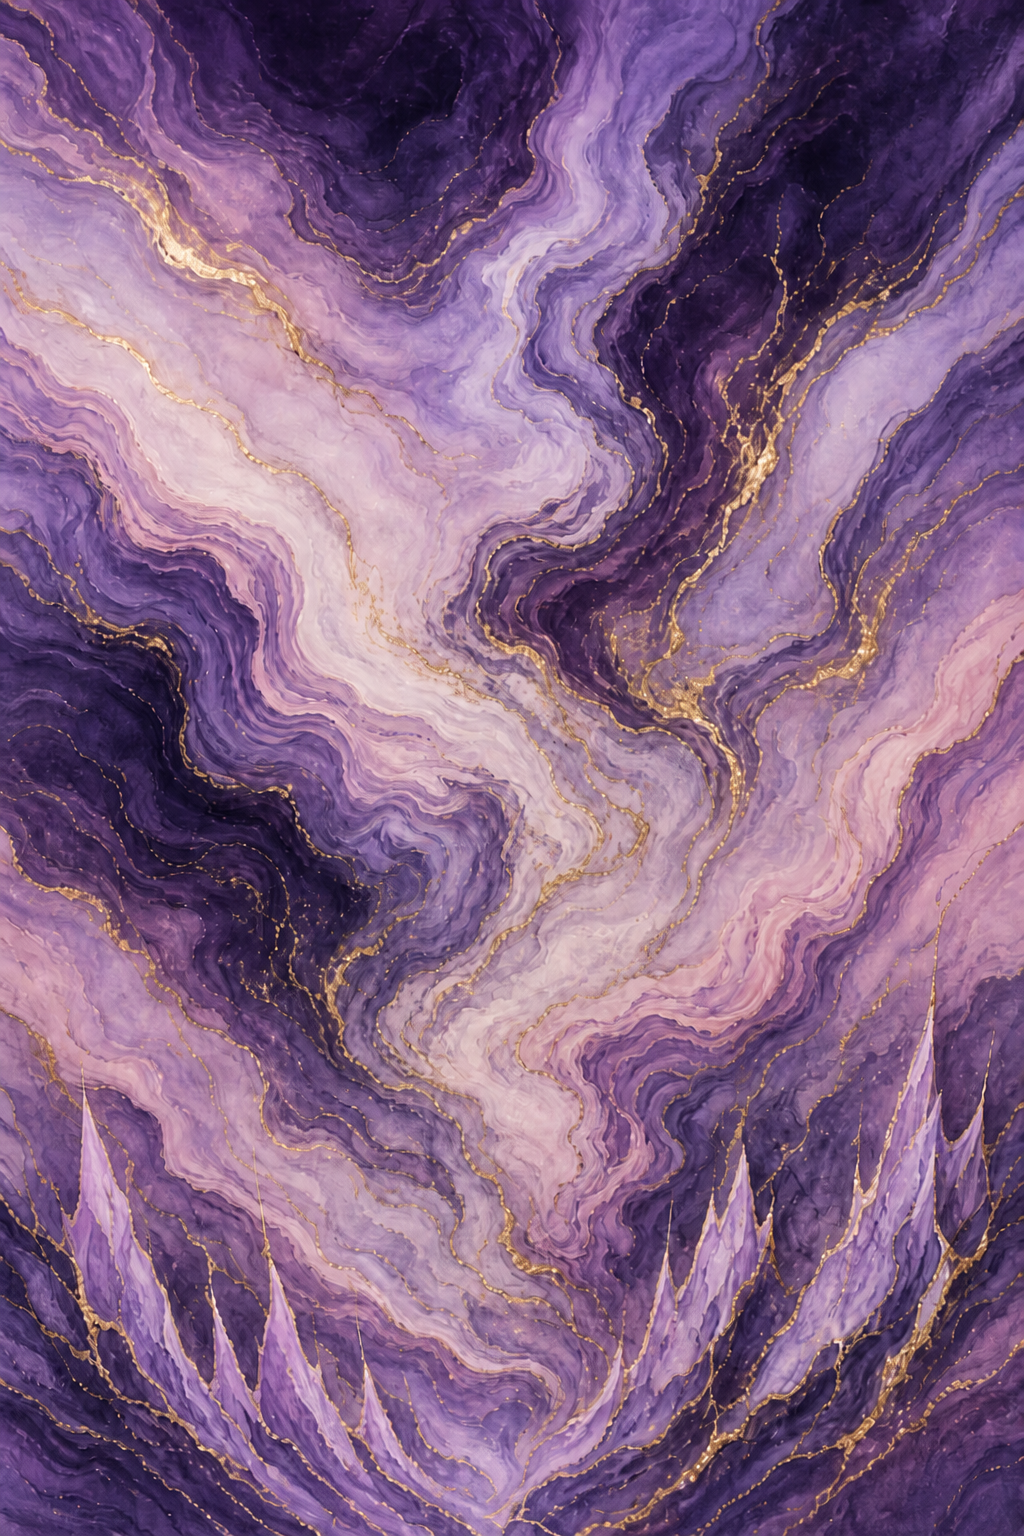
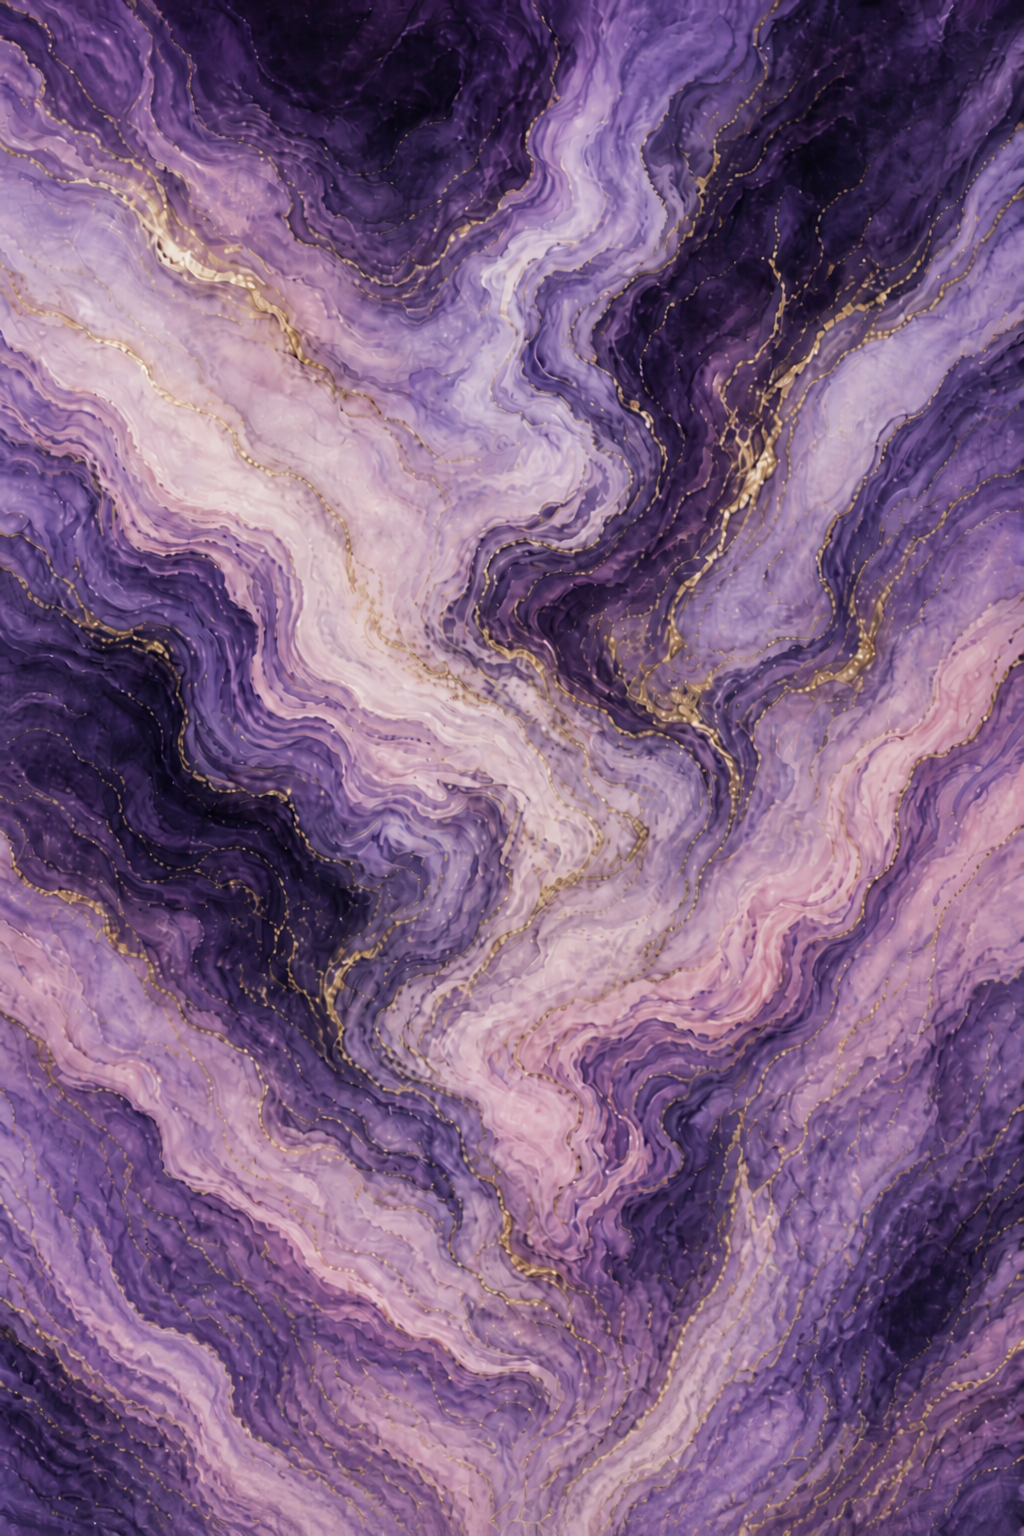
Add women's pastel Culture Run capsule and clean background plates
Five new 06-pastel drops (mist wave, apricot brush, mint marble, blush and lilac watercolor) plus a dusk-marble clean plate with no floral or spike artifacts.

diff --git a/design-board/src/data/culture.ts b/design-board/src/data/culture.ts
@@ -21,6 +21,11 @@ export const cultureMockups: Mockup[] = [
   { src: drop('05-watercolor', 'moss-watercolor', 'tee.png'), title: 'Moss Watercolor', type: 'Men tee · current wash', line: 'culture' },
   { src: drop('05-watercolor', 'sand-wave-watercolor', 'tank.png'), title: 'Sand Wave Watercolor', type: 'Men tank · wave wash', line: 'culture' },
   { src: drop('05-watercolor', 'cacao-watercolor', 'tank.png'), title: 'Cacao Watercolor Route', type: 'Women tank · route wash', line: 'culture' },
+  { src: drop('06-pastel', 'mist-wave', 'singlet.png'), title: 'Mist Wave', type: 'Women singlet · pastel wave', line: 'culture' },
+  { src: drop('06-pastel', 'apricot-brush', 'tee.png'), title: 'Apricot Brush', type: 'Women tee · pastel brush', line: 'culture' },
+  { src: drop('06-pastel', 'mint-marble', 'tank.png'), title: 'Mint Marble', type: 'Women tank · pastel marble', line: 'culture' },
+  { src: drop('06-pastel', 'blush-watercolor', 'tank.png'), title: 'Blush Watercolor', type: 'Women tank · sakura wash', line: 'culture' },
+  { src: drop('06-pastel', 'lilac-watercolor', 'tee.png'), title: 'Lilac Watercolor', type: 'Women tee · lilac wash', line: 'culture' },
 ]
 
 export const cultureBackgrounds = [
@@ -40,6 +45,11 @@ export const cultureBackgrounds = [
   { src: drop('05-watercolor', 'moss-watercolor', 'background-clean.png'), title: 'Clean — Moss Watercolor' },
   { src: drop('05-watercolor', 'sand-wave-watercolor', 'background-clean.png'), title: 'Clean — Sand Wave Watercolor' },
   { src: drop('05-watercolor', 'cacao-watercolor', 'background-clean.png'), title: 'Clean — Cacao Watercolor Route' },
+  { src: drop('06-pastel', 'mist-wave', 'background-clean.png'), title: 'Clean — Mist Wave' },
+  { src: drop('06-pastel', 'apricot-brush', 'background-clean.png'), title: 'Clean — Apricot Brush' },
+  { src: drop('06-pastel', 'mint-marble', 'background-clean.png'), title: 'Clean — Mint Marble' },
+  { src: drop('06-pastel', 'blush-watercolor', 'background-clean.png'), title: 'Clean — Blush Watercolor' },
+  { src: drop('06-pastel', 'lilac-watercolor', 'background-clean.png'), title: 'Clean — Lilac Watercolor' },
 ]
 
 export const cultureLayers = [
@@ -79,4 +89,9 @@ export const culturePrints = [
   { src: drop('05-watercolor', 'moss-watercolor', 'print.png'), title: 'Print — Moss Watercolor' },
   { src: drop('05-watercolor', 'sand-wave-watercolor', 'print.png'), title: 'Print — Sand Wave Watercolor' },
   { src: drop('05-watercolor', 'cacao-watercolor', 'print.png'), title: 'Print — Cacao Watercolor Route' },
+  { src: drop('06-pastel', 'mist-wave', 'print.png'), title: 'Print — Mist Wave' },
+  { src: drop('06-pastel', 'apricot-brush', 'print.png'), title: 'Print — Apricot Brush' },
+  { src: drop('06-pastel', 'mint-marble', 'print.png'), title: 'Print — Mint Marble' },
+  { src: drop('06-pastel', 'blush-watercolor', 'print.png'), title: 'Print — Blush Watercolor' },
+  { src: drop('06-pastel', 'lilac-watercolor', 'print.png'), title: 'Print — Lilac Watercolor' },
 ]

diff --git a/design-board/src/App.tsx b/design-board/src/App.tsx
@@ -501,8 +501,9 @@ function App() {
             <h2>Running shirts &amp; tanks</h2>
             <p className="lede">
               v2: all-over dye-sub, no embroidery patches. Textures: smooth gradient, brushed gradation, liquid marble,
-              heatmap, suminagashi, watercolor wash. Drops live under{' '}
-              <code>assets/culture-run/01-wave</code> … <code>05-watercolor</code>. Use{' '}
+              heatmap, suminagashi, watercolor wash. Women&apos;s pastel capsule lives in{' '}
+              <code>06-pastel</code>. Drops live under{' '}
+              <code>assets/culture-run/01-wave</code> … <code>06-pastel</code>. Use{' '}
               <code>background-clean.png</code> when you need to move kanji or logos; keep{' '}
               <code>print.png</code> as the locked composite.
             </p>
@@ -511,8 +512,9 @@ function App() {
           <section>
             <h2>Backgrounds only (no kanji / logo)</h2>
             <p className="lede">
-              Same drop, texture only — no logo, no kanji, no slogans. Place 走 / 山 and the hex C or CN
-              mark from <code>assets/culture-run/layers/</code> on top in any position.
+              Same drop, texture only — no logo, no kanji, no slogans, no flowers, no figurative
+              artifacts. Place 走 / 山 and the hex C or CN mark from{' '}
+              <code>assets/culture-run/layers/</code> on top in any position.
             </p>
             <MockGrid items={cultureBackgrounds} />
           </section>

diff --git a/docs/culture-run-collection.md b/docs/culture-run-collection.md
@@ -25,6 +25,10 @@ All-over dye-sub. No sewn embroidery patches. Hex C is flat print. 走 (if used)
 | Earth sumi | Espresso / sandstone ink marble | Sandstone Sumi |
 | Route marble | Cacao / clay trail-map lines | Cacao Route |
 | Watercolor wash | Controlled translucent pigment + contour lines | Earth-tone capsule |
+| Pastel wave | Powder / seafoam aurora + woodblock crests | Women Mist Wave |
+| Pastel brush | Apricot / cream wet-brush tide | Women Apricot Brush |
+| Pastel marble | Mint / pistachio liquid marble | Women Mint Marble |
+| Pastel watercolor | Blush sakura wash or lilac wash | Women Blush / Lilac |
 
 ---
 
@@ -32,7 +36,7 @@ All-over dye-sub. No sewn embroidery patches. Hex C is flat print. 走 (if used)
 
 Drops are grouped by texture so the file browser is easier to scan:
 
-`assets/culture-run/01-wave/` · `02-brushed/` · `03-marble/` · `04-earth/` · `05-watercolor/`
+`assets/culture-run/01-wave/` · `02-brushed/` · `03-marble/` · `04-earth/` · `05-watercolor/` · `06-pastel/`
 
 Each drop folder has garment mockup + `print.png` (locked) + `background-clean.png` (texture only).
 
@@ -41,7 +45,7 @@ Each drop folder has garment mockup + `print.png` (locked) + `background-clean.p
 | File | What it is |
 |------|------------|
 | `…/<drop>/print.png` | Locked design — leave this alone |
-| `…/<drop>/background-clean.png` | Same drop without logo, kanji, or slogans |
+| `…/<drop>/background-clean.png` | Texture only — no logo, kanji, slogans, flowers, or figurative artifacts |
 | `assets/culture-run/layers/kanji/so-run-*.png` | Transparent 走 |
 | `assets/culture-run/layers/kanji/san-mountain-*.png` | Transparent 山 |
 | `assets/culture-run/layers/logos/hex-c-*.png` | Transparent classic hex C |
@@ -67,6 +71,13 @@ Place a layer on `background-clean.png` in any editor. Do not overwrite `print.p
 | `05-watercolor` | `moss-watercolor` | Moss / stone river pigment wash | Men tee | 走 |
 | `05-watercolor` | `sand-wave-watercolor` | Sand / umber watercolor wave | Men tank | 走 |
 | `05-watercolor` | `cacao-watercolor` | Cacao / clay watercolor route | Women tank | No |
+| `06-pastel` | `mist-wave` | Powder / seafoam aurora wave | Women singlet | No |
+| `06-pastel` | `apricot-brush` | Apricot / cream wet-brush tide | Women tee | No |
+| `06-pastel` | `mint-marble` | Mint / pistachio liquid marble | Women tank | No |
+| `06-pastel` | `blush-watercolor` | Sakura path on blush watercolor | Women tank | No |
+| `06-pastel` | `lilac-watercolor` | Lilac watercolor wash | Women tee | No |
+
+`06-pastel` is the women's pastel run wall. Clean plates stay texture-only — no lavender sprigs, no sakura, no runners.
 
 `_archive-v1/` = flat charcoal pieces. Do not send those to factory.
 
@@ -94,15 +105,20 @@ Not batik costume, not a temple tourist print, not a flag.
 - **Sandstone Sumi:** espresso `#2C2420` + umber `#6D4234` + sandstone `#CCAA75` + smoke `#61554C` + cream `#E5D7BC`
 - **Cacao Route:** cacao `#4C2E26` + clay `#A65B45` + dusty rose `#B27C73` + oatmeal `#E3D3B5` + sage `#74806B`
 - **Watercolor capsule:** pigment edges should look transparent and layered—not paper texture, not an oil painting, and not a washed-out pastel.
+- **Mist Wave:** pearl `#F4F0EA` → powder `#B8D4E8` → seafoam `#9ED4C4`
+- **Apricot Brush:** cream `#F8EDE4` + apricot `#E8A888` + peach sand `#F0C4B0`
+- **Mint Marble:** jade cream `#E8F0E4` + mint `#C8E4D4` + pistachio `#B4D4A8`
+- **Blush Watercolor:** blossom cream `#FFF7F8` + blush `#F2C8C8` + sakura `#E8A4B4` + rose `#C45B78` (sakura path on the garment / print only)
+- **Lilac Watercolor:** mist `#F3EEF6` + lilac `#C5B4D8` + lavender `#8B6FA8` (lavender spikes on the garment only — never on `background-clean.png`)
 
 ---
 
 ## Shopee & floor
 
-Title: `Corenation Culture Run [Tee|Tank|Singlet] — [Blue Hour Wave|Brushed Tide|Summit Brushed|Bloom Marble|Dusk Marble|Home Soil Dawn|Heatmap Marble|Ink Marble|Bumi Strata|Moss Current|Sandstone Sumi|Cacao Route|Bumi Watercolor|Moss Watercolor|Sand Wave Watercolor|Cacao Watercolor Route]`
+Title: `Corenation Culture Run [Tee|Tank|Singlet] — [Blue Hour Wave|Brushed Tide|Summit Brushed|Bloom Marble|Dusk Marble|Home Soil Dawn|Heatmap Marble|Ink Marble|Bumi Strata|Moss Current|Sandstone Sumi|Cacao Route|Bumi Watercolor|Moss Watercolor|Sand Wave Watercolor|Cacao Watercolor Route|Mist Wave|Apricot Brush|Mint Marble|Blush Watercolor|Lilac Watercolor]`
 
 Hang so the **back** shows. Do not merch next to the 龍 lifting short without a fixture break.
 
 ---
 
-*Document version: 3.4 — Clean plates are `background-clean.png`. Drops grouped into `01-wave` … `05-watercolor`. Loose marks live in `layers/kanji` and `layers/logos`.*
+*Document version: 3.5 — Women's pastel capsule in `06-pastel`. Clean plates stay texture-only (no flowers or figurative artifacts). Loose marks live in `layers/kanji` and `layers/logos`.*

diff --git a/docs/branding-checklist.md b/docs/branding-checklist.md
@@ -90,6 +90,8 @@ Corenation is the training brand you actually wear to train — same class of fa
 
 **Women lavender (lilac SKUs):** lilac `#C5B4D8` · lavender `#8B6FA8` · dusk purple `#5C4A72` · cream `#F3EEF6` · charcoal (structure only)
 
+**Women Culture Run (pastel):** powder `#B8D4E8` · seafoam `#9ED4C4` · apricot `#E8A888` · mint `#C8E4D4` · sakura `#E8A4B4` · lilac `#C5B4D8` · charcoal (marks only)
+
 **Hijab:** either floral palette **or** neutrals (black, cream, olive, navy). No gold-foil luxury script.
 
 ---
@@ -303,7 +305,7 @@ Owner: Brand lead + Design · Social: Active and/or Men (see drop)
 
 - [ ] Copy is pace, session, community run. Use: *run the city, keep the line, dawn club.* Not *conquer nations*, not luxury marathon.
 - [ ] Fabric looks **light** in photos (mesh, singlet, split hem). If it photographs like a lifting tee, recut or relight.
-- [ ] Graphic is one idea: Wave (走), Summit, Bloom Path (women), Dusk Lilac (women), Home Soil.
+- [ ] Graphic is one idea: Wave (走), Summit, Bloom Path (women), Dusk Lilac (women), Home Soil, or one pastel story (Mist Wave / Apricot Brush / Mint Marble / Blush / Lilac).
 - [ ] **No embroidery patches** on running SKUs. Hex C + 走 + waves are **print / dye-sub** only (raised heat-transfer is OK if it looks printed, not a sewn badge).
 - [ ] **Gradation required** on v2 pieces (Nedao Vortex / Aurora / Blue Hour energy). Do not ship a solid charcoal tee with a sticker graphic.
 - [ ] Placement: all-over color; 走 or the culture graphic lives in the dye on the back. Front stays quiet (printed hex C + wordmark).
@@ -319,7 +321,7 @@ Owner: Brand lead + Design · Social: Active and/or Men (see drop)
 
 ### Shopee title
 
-`Corenation Culture Run [Tee|Tank|Singlet] — [Wave|Summit|Bloom Path|Dusk|Home Soil]`
+`Corenation Culture Run [Tee|Tank|Singlet] — [Wave|Summit|Bloom Path|Dusk|Home Soil|Mist Wave|Apricot Brush|Mint Marble|Blush Watercolor|Lilac Watercolor]`
 
 ### Store VM
 

diff --git a/assets/README.md b/assets/README.md
@@ -33,8 +33,9 @@ assets/
     03-marble/                bloom / dusk / heatmap / ink
     04-earth/                 bumi / moss / sandstone / cacao
     05-watercolor/            earth-tone wash capsule
+    06-pastel/                women's pastel run wall
       <drop>/
-        background-clean.png  texture only — no logo, kanji, or slogans
+        background-clean.png  texture only — no logo, kanji, slogans, flowers, or artifacts
         print.png             locked composite (do not overwrite)
         singlet.png | tank.png | tee.png
     layers/
@@ -80,3 +81,8 @@ Culture Run drops (v2 — print + gradient, no embroidery patch):
 | `05-watercolor` | `moss-watercolor` | Moss / river-stone watercolor current | Men tee |
 | `05-watercolor` | `sand-wave-watercolor` | Sand / umber watercolor wave | Men tank |
 | `05-watercolor` | `cacao-watercolor` | Cacao / clay watercolor route | Women tank |
+| `06-pastel` | `mist-wave` | Powder / seafoam aurora wave | Women singlet |
+| `06-pastel` | `apricot-brush` | Apricot / cream wet-brush tide | Women tee |
+| `06-pastel` | `mint-marble` | Mint / pistachio liquid marble | Women tank |
+| `06-pastel` | `blush-watercolor` | Sakura path on blush watercolor | Women tank |
+| `06-pastel` | `lilac-watercolor` | Lilac watercolor wash | Women tee |

diff --git a/docs/floral-design-collection.md b/docs/floral-design-collection.md
@@ -92,6 +92,8 @@ Logo: hex C + CORENATION on every accs piece. Apparel: hex C at hem or nape; do 
 | **Sakura Session** | Pink + sakura | Belt, gloves, tee, short |
 | **Lavender Dusk** | Lilac + lavender | Belt, gloves, tank, tight |
 | **Bloom Path** (shared with Culture Run) | Sakura graphic on a **running** tank | Women's run tank only — see culture-run spec |
+| **Blush Watercolor** (shared with Culture Run) | Sakura path on blush watercolor | Women's run tank — flower stays on the garment / print, never on `background-clean.png` |
+| **Lilac Watercolor** (shared with Culture Run) | Lavender spikes on a lilac wash tee | Women's run tee — flower stays on the garment, never on `background-clean.png` |
 
 Do not launch Sakura Session and Lavender Dusk in the same week on the same grid.
 
@@ -108,4 +110,4 @@ Mockups: `assets/women-floral/sakura/` and `assets/women-floral/lavender/`
 
 ---
 
-*Document version: 1.0 — Women's floral. Japanese kanji stay on the men's line.*
+*Document version: 1.1 — Shared Culture Run blush / lilac watercolor tanks and tees. Japanese kanji stay on the men's line.*
